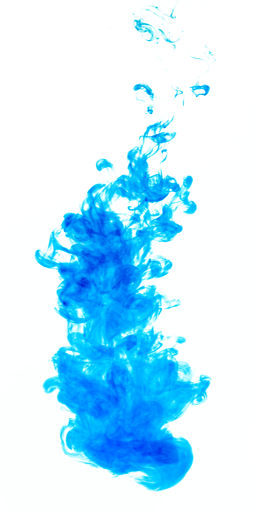
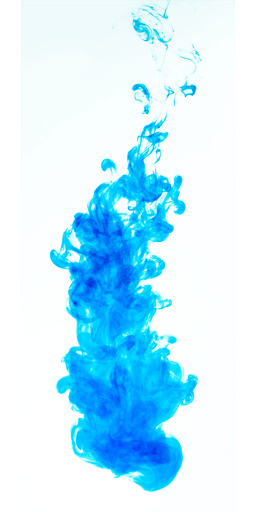
[tweak][#7] Settled on wall textures.

Changed region(s): [[0.125, 0.0938, 0.8438, 0.9688], [0.5, 0.0, 0.6875, 0.125], [0.8125, 0.0938, 0.8438, 0.125]]

diff --git a/scene.tsx b/scene.tsx
@@ -10,7 +10,6 @@ interface State {
     pedestalColor: string | number;
     dogAngle: number;
     donutAngle: number;
-    boundaryOpacity: number;
 }
 
 interface ComposeableSceneContainer {
@@ -25,8 +24,7 @@ export default class OSEVRScene extends ScriptableScene<any, State> {
     this.state = {
       pedestalColor: colors[0],
       dogAngle: 0,
-      donutAngle: 0,
-      boundaryOpacity: 0
+      donutAngle: 0
     };
     this.components = {};
 
@@ -55,16 +53,6 @@ export default class OSEVRScene extends ScriptableScene<any, State> {
     this.subscribeTo('positionChanged', e => {
       const rotateDonuts = ( e.position.x + e.position.z) * 10
       this.setState({donutAngle: rotateDonuts})
-    })
-
-    this.subscribeTo('positionChanged', e => {
-      const d = Math.abs(e.position.z - 10);
-      let boundaryOpacity = 0;
-
-      if (d < 10) {
-        boundaryOpacity = 1 - d / 10;
-        this.setState({boundaryOpacity})
-      }
     })
   }
 
@@ -95,24 +83,22 @@ export default class OSEVRScene extends ScriptableScene<any, State> {
           id="pane_material1"
           albedoTexture="assets/Inky_Smoke.png"
           hasAlpha
-          alpha={this.state.boundaryOpacity}
         />
         <plane
           id='pane1'
-          position={{x:0, y:0.5, z:4.99}}
-          scale={{ x: 10, y: 1, z: 1 }}
+          position={{x:0, y:2, z:4.99}}
+          scale={{ x:4, y:4, z:1 }}
           material="#pane_material1"
         />
         <material
           id="pane_material2"
           albedoTexture="assets/Ink_Drop.png"
           hasAlpha
-          alpha={this.state.boundaryOpacity}
         />
         <plane
           id='pane2'
-          position={{x:10, y:0.5, z:4.99}}
-          scale={{ x: 10, y: 20, z: 1 }}
+          position={{x:10, y:2, z:4.99}}
+          scale={{ x:2, y:4, z:1 }}
           material="#pane_material2"
         />
       </scene>
